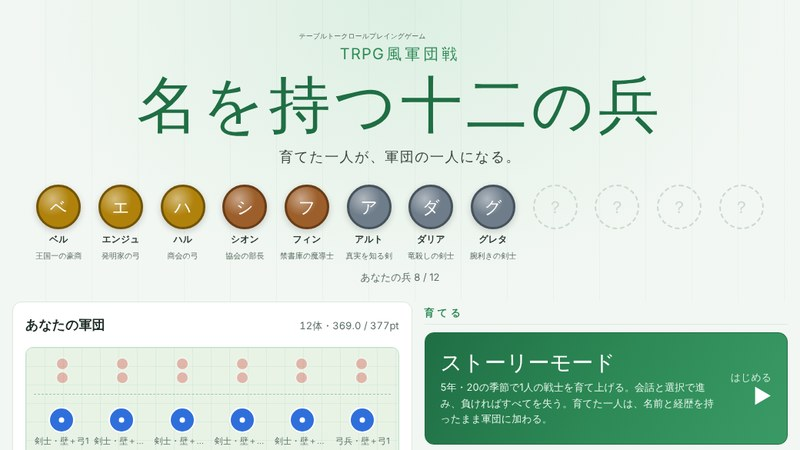
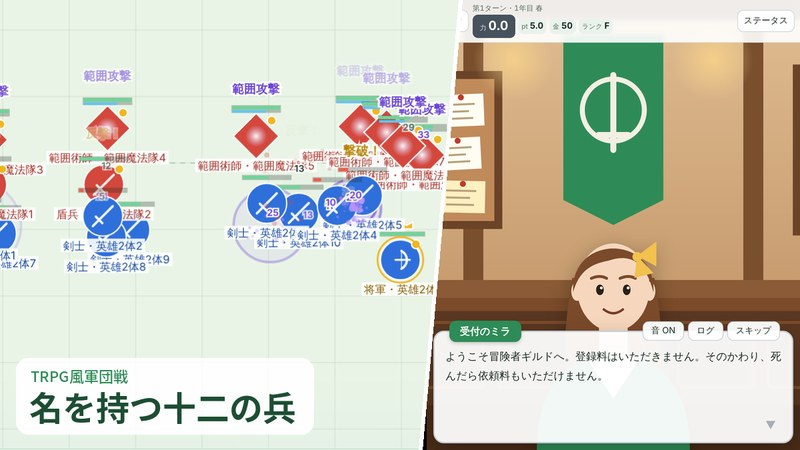
名を持つ十二の兵: 一覧の紹介文とサムネイルを更新 (#6)
Claude-Session: https://claude.ai/code/session_01CviCac2QdGqLVZMnijYWc3

diff --git a/README.md b/README.md
@@ -9,7 +9,7 @@
 | ゲーム | 内容 |
 |---|---|
 | [INFINITE SHOT 3D](games/infinite-shot-3d/) | 自動前進の3Dシューティング。5分間スコアアタック |
-| [名を持つ十二の兵](games/named-twelve/) | TRPG風軍団戦。会話と選択で戦士を育て、12体の軍団を編成して見守る |
+| [名を持つ十二の兵](games/named-twelve/) | TRPG風軍団戦。会話と選択で戦士を4年かけて育て、12体の軍団で戦う。手がかりをつなぐと真シナリオが開く |
 
 ## 構成
 
